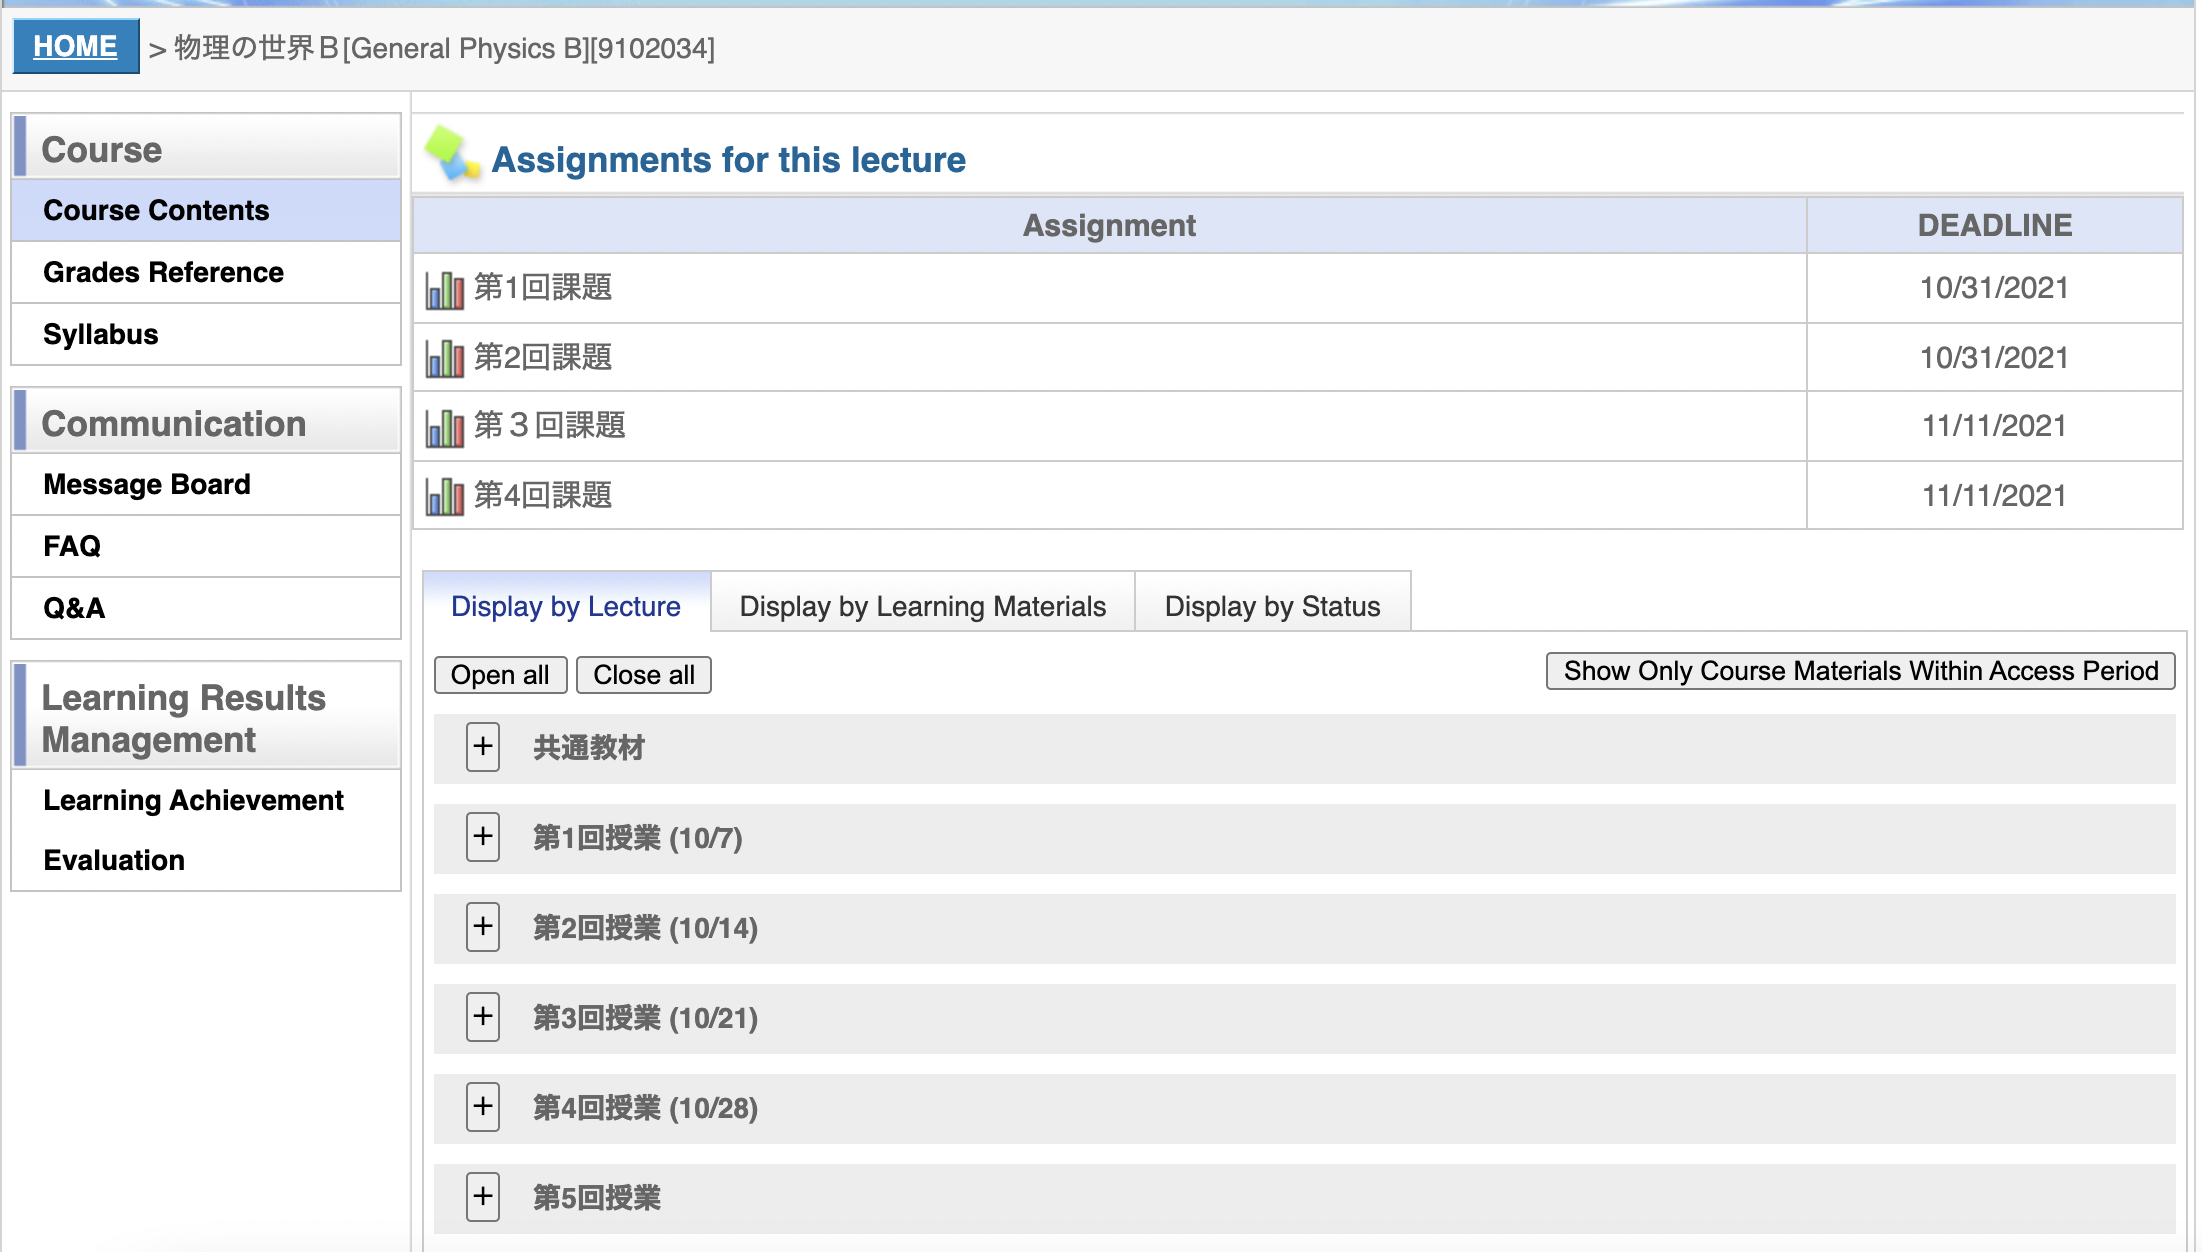
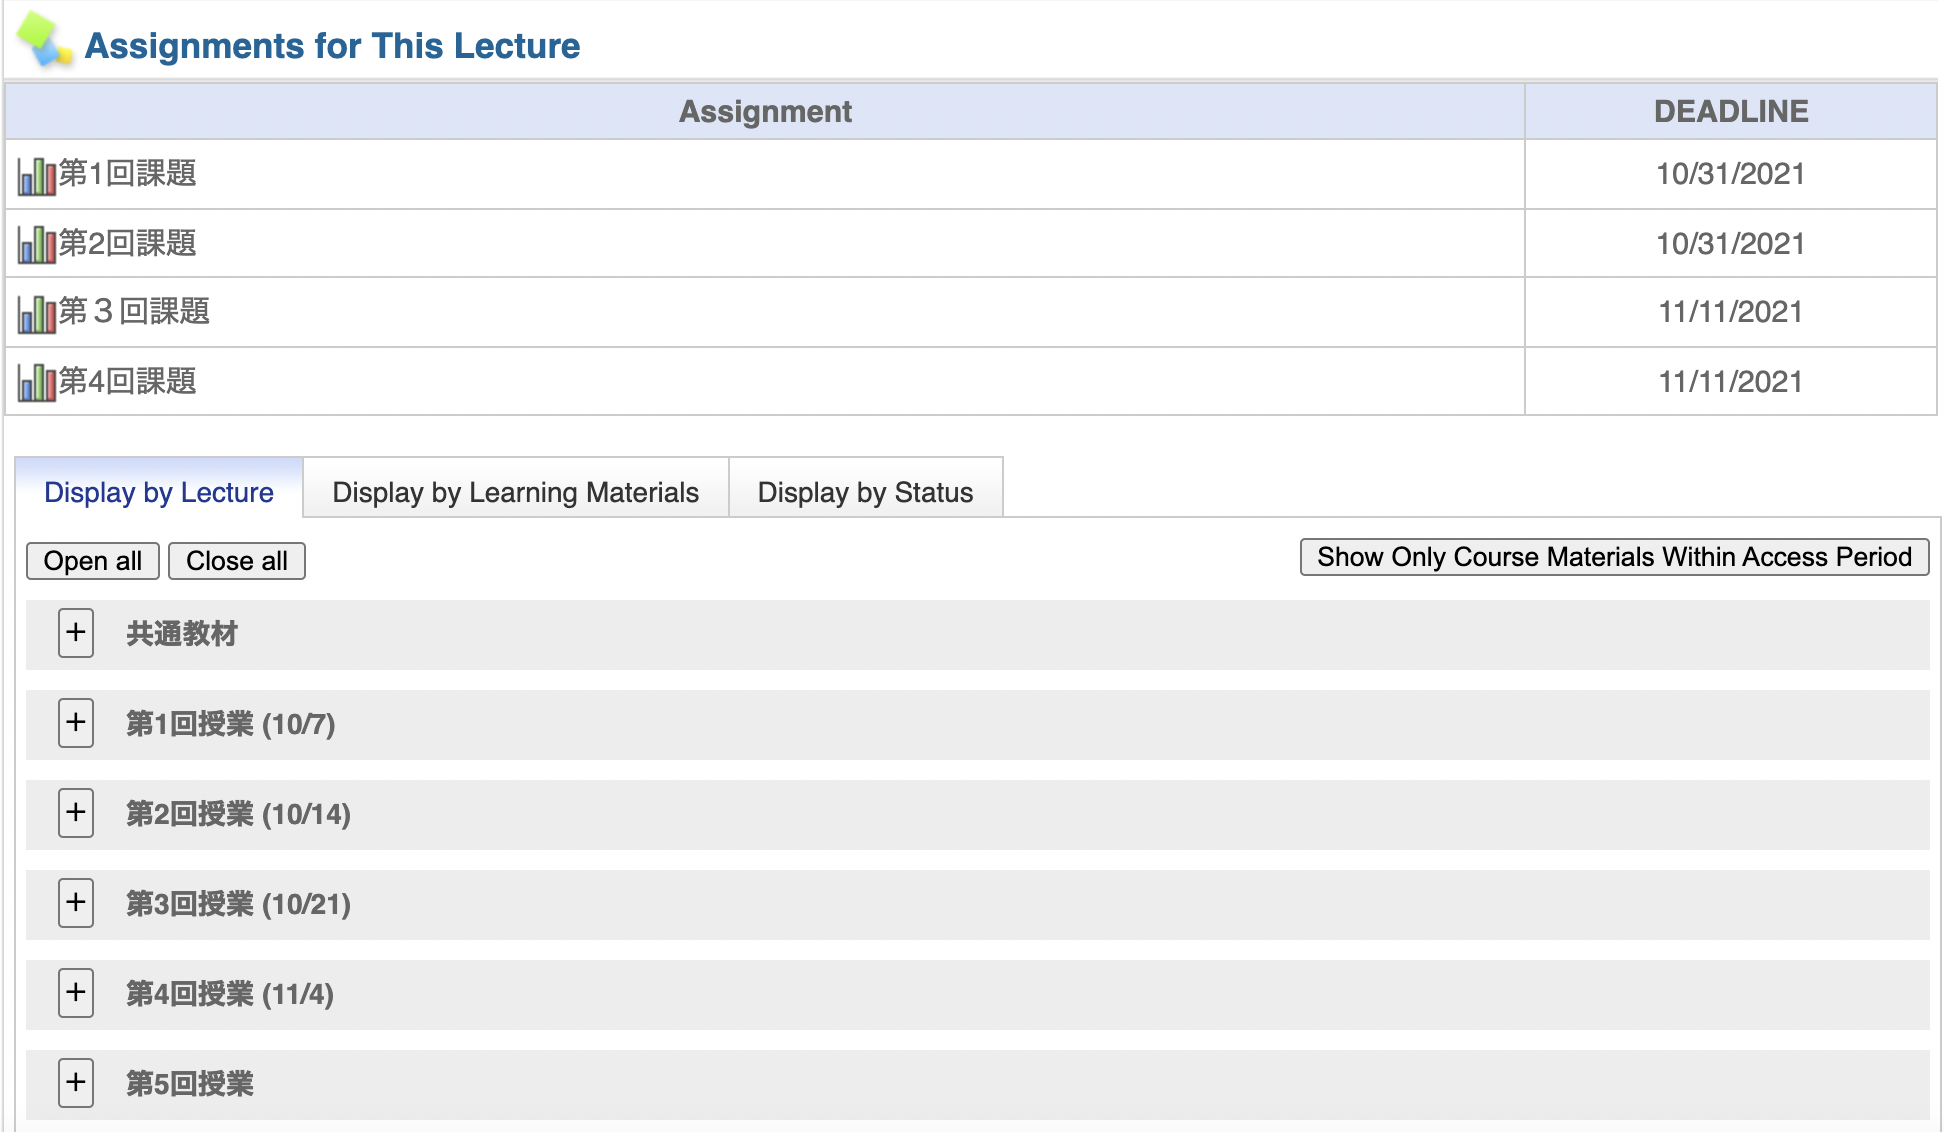
add to google calendar

diff --git a/src/show_homework.js b/src/show_homework.js
@@ -15,19 +15,54 @@ var table_header = `
     <th width="31%">Lecture</th>
     <th width="37%">Assignment</th>
     <th width="10%">DEADLINE</th>
+    <!--<th width="10%"></th>-->
   </tr>
 `
 
 var table_footer = `
+<script>
+</script>
 </tbody></table>
 <div class="cs_flmenuvox clearfix">
 </div>
 </div>
 `
 
-async function QueryData() {
+var btn_function = `
+    function remove_btn_clicked(event) {
+        console.log(event.target.eventParam)
+    };
+
+    document.getElementsByName('remove_btn').forEach(btn => {
+        btn.eventParam = btn.getAttribute('hw_id');
+        btn.addEventListener('click', remove_btn_clicked);
+    });
+`
+
+
+async function OpenDB() {
     const dbName = "HomeworkDB"
     var db = await new Dexie(dbName).open();
+    return db
+}
+
+async function RemoveData(e) {
+    console.log("pushed")
+    var hw_id = e.target.value
+    var db = await OpenDB()
+    db.table('hw_store').delete(hw_id)
+}
+function getNowYMDStr(date){
+    const Y = date.getFullYear()
+    const M = ("00" + (date.getMonth()+1)).slice(-2)
+    const D = ("00" + date.getDate()).slice(-2)
+  
+    return Y + M + D
+  }
+
+
+async function QueryData() {
+    var db = await OpenDB();
     var hw_store = await db.table('hw_store').toArray()
     var content = ''
     hw_store.forEach(await function(hw) {
@@ -45,14 +80,22 @@ async function QueryData() {
         content += `
         <tr>
         <td rowspan="1">${hw["Subject"]}</td>
-            <td><img src="${icon(hw["ID"].substring(0, 3))}" alt="Report">${hw["Name"]}</td>
-            <td align="center">${hw["Due"].toLocaleDateString()}</a></td>
+        <td><img src="${icon(hw["ID"].substring(0, 3))}" alt="Report">${hw["Name"]}</td>
+        <td align="center">
+            <a href="https://calendar.google.com/calendar/render?action=TEMPLATE&text=${hw["Subject"] + " Assignment"}&details=${hw["Name"]}&dates=${getNowYMDStr(hw["Due"])}/${getNowYMDStr(new Date(hw["Due"].getTime() + 86400000))}" target="_blank" rel="noopener noreferrer">
+                ${hw["Due"].toLocaleDateString()}
+            </a>
+        </td>
+        <!--<td align="center"><button type="submit" name="remove_btn" hw_id=${hw["ID"]}>Remove</button>-->
         </tr>
         `
     });
     target.innerHTML =
-         banner + table_header + content + table_footer + target.innerHTML
+         banner + table_header + content + table_footer + target.innerHTML 
+    //document.createElement('script').innerHTML += btn_function
 }
 
 QueryData()
+
+
 

diff --git a/src/fetch_homework.js b/src/fetch_homework.js
@@ -35,11 +35,11 @@ for (let i = 0; i < homework_date.length; i++) {
         var due_date = is_due[2]
         var homework = new Map()
         var homework_id = homework_date[i].parentElement.querySelector("td.td01").id
-        var homework_name = homework_date[i].parentElement.querySelector("td.td01")
+        var homework_name = homework_date[i].parentElement.querySelector("td.td01").textContent.trim()
         
         homework.set("ID", homework_id)
         homework.set("Subject", subject_name)
-        homework.set("Name", homework_name.textContent)
+        homework.set("Name", homework_name)
         homework.set("Due", new Date(due_date))
         homework_list.push(homework)
     }
@@ -47,7 +47,7 @@ for (let i = 0; i < homework_date.length; i++) {
 
 var banner = `
 <div id=\"title\">
-<h2>Assignments for this lecture<span>
+<h2>Assignments for This Lecture<span>
 <img src=\"/lms/img/cs/yazi3.gif\">
 </h2></div>
 `

diff --git a/src/background.js b/src/background.js
@@ -1,0 +1,14 @@
+// import 'core-js';  // NOTE: babel で useBuiltIns: 'entry' にする場合に必要
+const moment = require('moment');
+import axios from 'axios';
+
+const now = moment();
+(async () => {
+  console.log({
+    from: 'background.js',
+    now: now.format('YYYY/MM/DD HH:mm:ss'),
+    data: res.data,
+  })
+})();
+
+

diff --git a/webpack.common.js b/webpack.common.js
@@ -4,7 +4,8 @@ const CopyPlugin = require("copy-webpack-plugin");
 module.exports = {
   entry: {
     fetch_homework: './src/fetch_homework.js',
-    show_homework: './src/show_homework.js'
+    show_homework: './src/show_homework.js',
+    background: './src/background.js'
   },
   watchOptions: {
     ignored: /node_modules/,

diff --git a/src/remove_homework.js b/src/remove_homework.js
@@ -1,0 +1,10 @@
+import Dexie from "dexie";
+import OpenDB from "./show_homework"
+
+async function RemoveData(e) {
+    console.log("pushed")
+    var db = await OpenDB()
+    db.table('hw_store').delete(hw_id)
+}
+
+RemoveData()

diff --git a/README.md b/README.md
@@ -14,8 +14,15 @@ https://reviews.f-tools.net/Add-On/Jisaku-Tuika.html
 この時、課題の情報がブラウザ内のデータベース(IndexedDB)に保存されます。  
 ![lecture page](images/photo_00.png)
   
-そして、そのデータベースの情報をもとに、LMSのトップページで課題一覧が表示されます。
+そして、そのデータベースの情報をもとに、LMSのトップページで課題一覧が表示されます。  
+また、DEADLINEのリンクにアクセスすると、
 ![toppage](images/photo_01.png)
+以下のようにGoogle カレンダーへの追加もできます
+![googlecalendar](images/photo_02.png)
+
+### 課題の消し方
+データベース上のデータを消す機能はまだ未実装なので、F12→Application→IndexedDB→HomeworkDB→hw_store から手動で削除してください。もっと楽にできるようにしたい。
+![remove](images/photo_03.png)
 
 ## サーバー負荷について
 DOM操作(データ取得)はあくまで**講義ページを手動で開いたときのみ**なので、サーバー負荷は一般の利用時と変わらないと推測されます。
